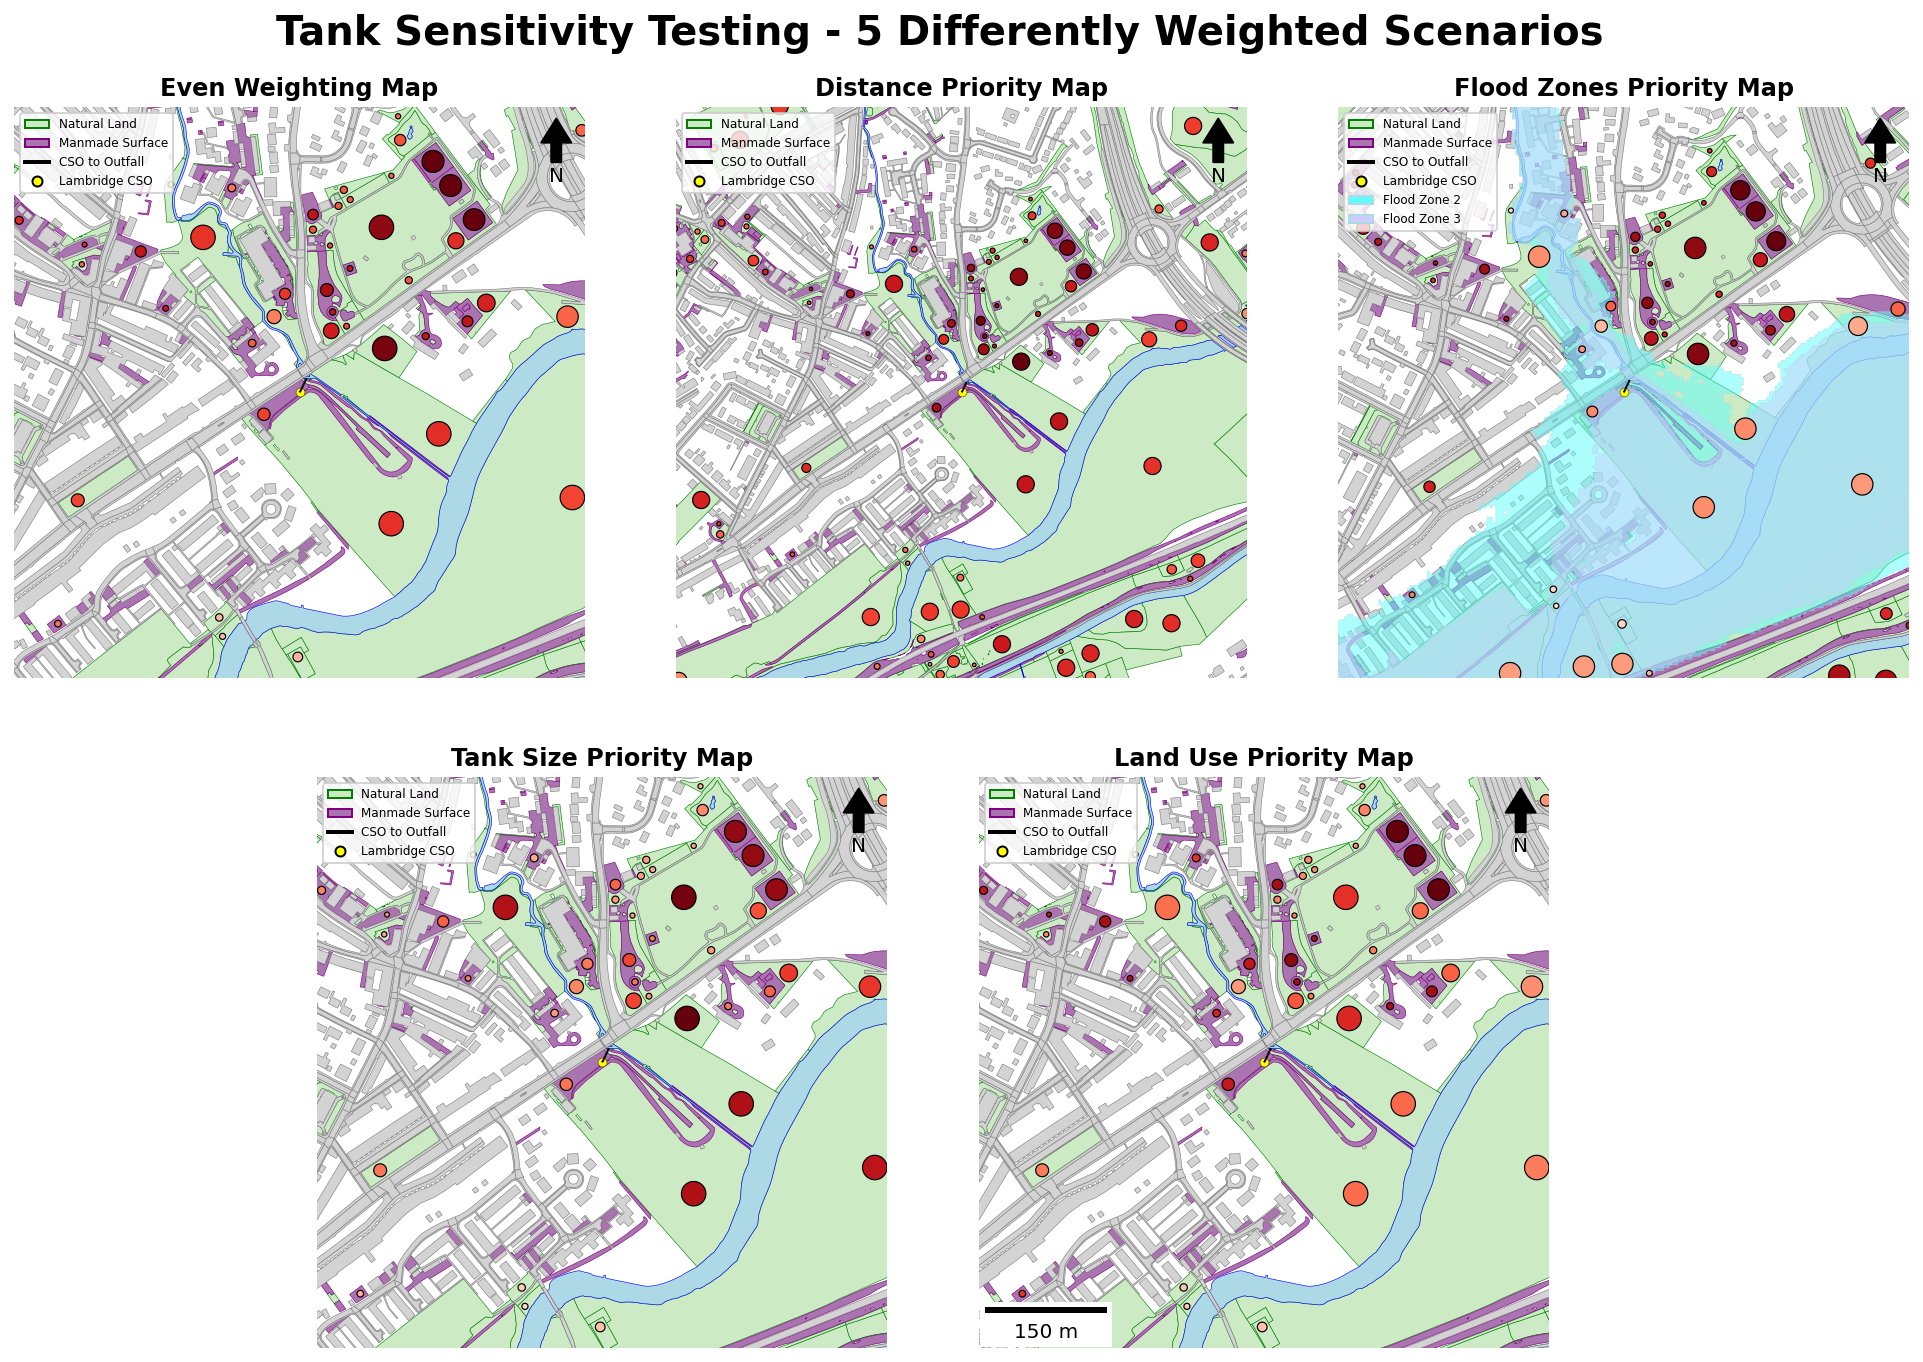
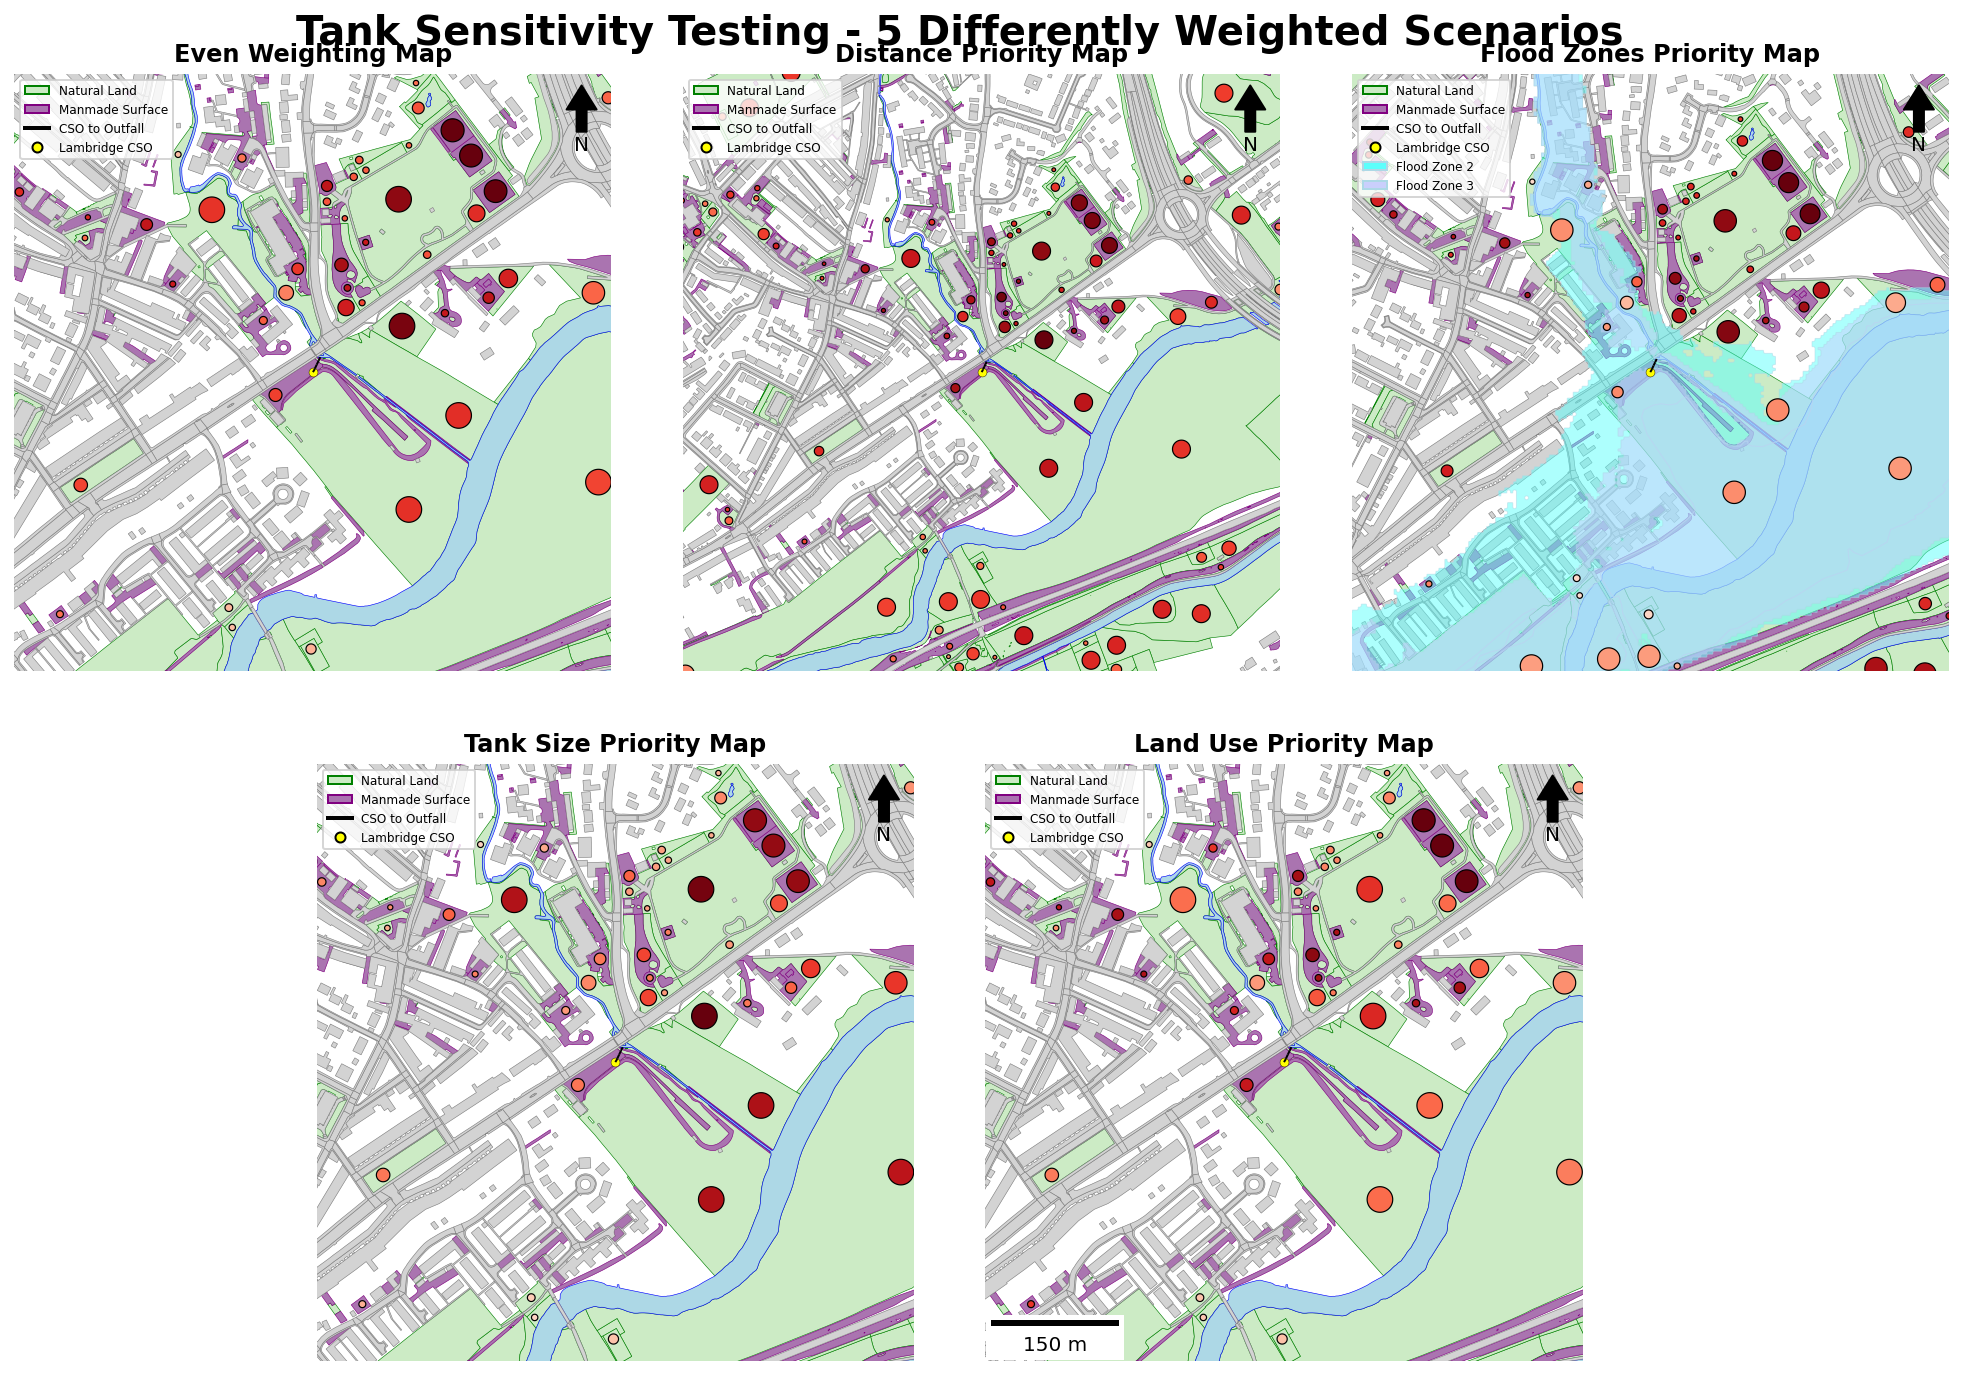
okay slay

diff --git a/dissertation-code.py b/dissertation-code.py
@@ -499,7 +499,7 @@ axes = my_ax.flatten()
 axes[5].set_visible(False)
 
 #tight layout so theres no gaps
-fig.tight_layout(pad=1)
+fig.tight_layout(pad=1.5)
 
 # top 3 maps all evenly spaced out - auto
 # bottom 2 maps centred under the 3 top ones - set position
